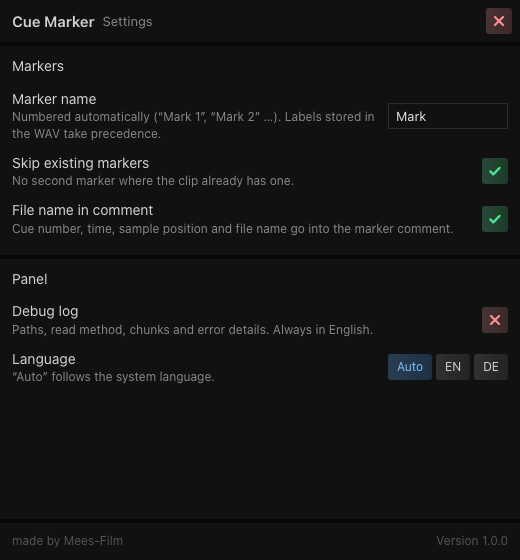
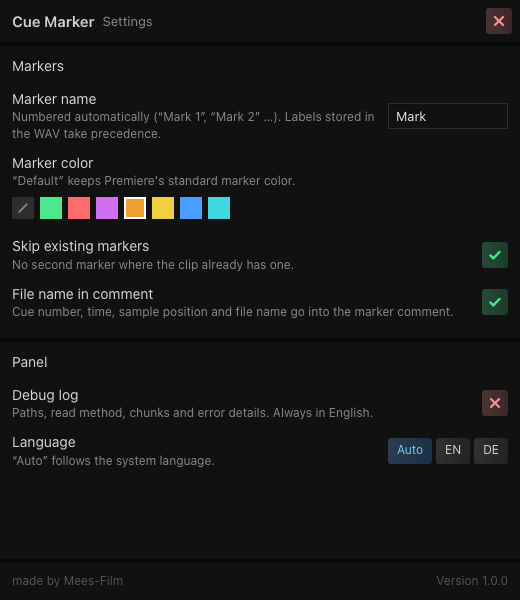
Marker color option
Settings get a swatch row with Premiere's documented marker colors
(Constants.MarkerColor) plus Default. After the add transaction the new
markers are looked up by time and name and colored in a second
transaction via createSetColorByIndexAction.

diff --git a/index.js b/index.js
@@ -27,6 +27,11 @@ const STRINGS = {
     "sec.panel": "Panel",
     "opt.prefix": "Marker name",
     "opt.prefix.hint": "Numbered automatically (“Mark 1”, “Mark 2” …). Labels stored in the WAV take precedence.",
+    "opt.color": "Marker color",
+    "opt.color.hint": "“Default” keeps Premiere's standard marker color.",
+    "color.default": "Default",
+    "color.GREEN": "Green", "color.RED": "Red", "color.MAGENTA": "Purple", "color.ORANGE": "Orange",
+    "color.YELLOW": "Yellow", "color.BLUE": "Blue", "color.CYAN": "Cyan",
     "opt.skipDup": "Skip existing markers",
     "opt.skipDup.hint": "No second marker where the clip already has one.",
     "opt.fileComment": "File name in comment",
@@ -76,6 +81,11 @@ const STRINGS = {
     "sec.panel": "Panel",
     "opt.prefix": "Marker-Name",
     "opt.prefix.hint": "Wird fortlaufend nummeriert („Mark 1“, „Mark 2“ …). In der WAV gespeicherte Labels haben Vorrang.",
+    "opt.color": "Marker-Farbe",
+    "opt.color.hint": "„Standard“ behält Premieres Vorgabefarbe.",
+    "color.default": "Standard",
+    "color.GREEN": "Grün", "color.RED": "Rot", "color.MAGENTA": "Lila", "color.ORANGE": "Orange",
+    "color.YELLOW": "Gelb", "color.BLUE": "Blau", "color.CYAN": "Cyan",
     "opt.skipDup": "Vorhandene Marker überspringen",
     "opt.skipDup.hint": "Kein zweiter Marker, wo der Clip schon einen hat.",
     "opt.fileComment": "Dateiname im Kommentar",
@@ -131,12 +141,25 @@ function applyLanguage() {
   for (const el of document.querySelectorAll("[data-i18n]")) el.textContent = t(el.getAttribute("data-i18n"));
   for (const el of document.querySelectorAll("[data-i18n-title]")) el.title = t(el.getAttribute("data-i18n-title"));
   for (const b of document.querySelectorAll("#langRow .seg-btn")) b.classList.toggle("active", b.getAttribute("data-lang") === settings.lang);
+  for (const sw of document.querySelectorAll("#colorRow .swatch")) sw.title = t("color." + sw.getAttribute("data-color"));
   if (statusState === "idle") setStatus(t("status.idle"), "idle");
 }
 
 // ---------- Settings ----------
 const VERSION = "1.0.0";
-const DEFAULTS = { prefix: "Mark", skipDup: true, fileComment: true, debug: false, lang: "auto" };
+const DEFAULTS = { prefix: "Mark", skipDup: true, fileComment: true, debug: false, lang: "auto", color: "default" };
+// Marker colors: names of ppro.Constants.MarkerColor (documented since 25.6; White is not
+// documented and therefore not offered). The hex values only paint the swatches.
+const COLORS = [
+  { key: "default", hex: null },
+  { key: "GREEN", hex: "#4ce890" },
+  { key: "RED", hex: "#ff6b6b" },
+  { key: "MAGENTA", hex: "#d070f0" },
+  { key: "ORANGE", hex: "#f0a030" },
+  { key: "YELLOW", hex: "#f0d040" },
+  { key: "BLUE", hex: "#4a9eff" },
+  { key: "CYAN", hex: "#40d8e0" },
+];
 let settings = { ...DEFAULTS };
 
 function loadSettings() {
@@ -192,8 +215,23 @@ function paintToggle(el, on) {
   el.innerHTML = on ? ICON_TICK : ICON_CROSS;
 }
 
+function buildSwatches() {
+  const rowEl = $("colorRow");
+  rowEl.innerHTML = "";
+  for (const c of COLORS) {
+    const sw = document.createElement("div");
+    sw.className = "swatch" + (c.hex ? "" : " none");
+    sw.setAttribute("data-color", c.key);
+    if (c.hex) sw.style.background = c.hex;
+    else sw.innerHTML = '<svg width="12" height="12" viewBox="0 0 12 12" fill="none"><path d="M2.2 9.8 9.8 2.2" stroke="currentColor" stroke-width="1.8" stroke-linecap="round"/></svg>';
+    sw.addEventListener("click", () => { settings.color = c.key; saveSettings(); applySettings(); });
+    rowEl.appendChild(sw);
+  }
+}
+
 function applySettings() {
   $("optPrefix").value = settings.prefix;
+  for (const sw of document.querySelectorAll("#colorRow .swatch")) sw.classList.toggle("active", sw.getAttribute("data-color") === settings.color);
   paintToggle($("optSkipDup"), settings.skipDup);
   paintToggle($("optFileComment"), settings.fileComment);
   paintToggle($("optDebug"), settings.debug);
@@ -278,6 +316,7 @@ try {
   console.warn("entrypoints.setup failed:", e);
 }
 
+buildSwatches();
 loadSettings();
 applySettings();
 
@@ -520,6 +559,35 @@ async function selectedClips(project) {
   return out;
 }
 
+function markerColorIndex() {
+  if (!settings.color || settings.color === "default") return null;
+  const mc = ppro.Constants && ppro.Constants.MarkerColor;
+  const v = mc ? mc[settings.color] : undefined;
+  return typeof v === "number" ? v : null;
+}
+
+// Second transaction after the add: the add action does not hand back the marker,
+// so the new markers are looked up by time and name and then colored.
+async function colorizeMarkers(project, clip, clipName, fresh, colorIndex) {
+  const markers = await ppro.Markers.getMarkers(clip);
+  if (!markers) return 0;
+  const targets = [];
+  for (const m of markers.getMarkers()) {
+    let start, name;
+    try { start = m.getStart(); name = m.getName(); } catch (_) { continue; }
+    const sec = typeof start.seconds === "number" ? start.seconds : Number(start.ticks) / 254016000000;
+    if (fresh.some((p) => p.name === name && Math.abs(p.seconds - sec) <= DUP_TOLERANCE)) targets.push(m);
+  }
+  if (!targets.length) return 0;
+  let ok = false;
+  project.lockedAccess(() => {
+    ok = project.executeTransaction((ca) => {
+      for (const m of targets) ca.addAction(m.createSetColorByIndexAction(colorIndex));
+    }, `Cue Marker color: ${clipName}`);
+  });
+  return ok ? targets.length : 0;
+}
+
 function existingMarkerTimes(markers) {
   const times = [];
   try {
@@ -586,6 +654,7 @@ async function run(dry) {
       index: i + 1,
       dup: existing.some((x) => Math.abs(x - cue.seconds) <= DUP_TOLERANCE),
     }));
+    for (const p of plan) p.name = p.label || `${settings.prefix} ${p.index}`;
     const fresh = plan.filter((p) => !p.dup);
     const dups = plan.length - fresh.length;
     for (const p of plan) log(`  cue ${p.index}: ${fmtTime(p.seconds)} (sample ${p.sample})${p.dup ? " – exists" : ""}${p.label ? " – " + p.label : ""}`);
@@ -598,7 +667,7 @@ async function run(dry) {
         project.lockedAccess(() => {
           ok = project.executeTransaction((ca) => {
             for (const p of fresh) {
-              const name = p.label || `${settings.prefix} ${p.index}`;
+              const name = p.name;
               const parts = [];
               if (p.note) parts.push(p.note);
               if (settings.fileComment) parts.push(`Cue ${p.index} · ${fmtTime(p.seconds)} · sample ${p.sample} · ${baseName(c.path)}`);
@@ -622,6 +691,17 @@ async function run(dry) {
       }
       added = fresh.length;
       log(`${added} marker(s) added to "${c.name}"`, "ok");
+      const colorIndex = markerColorIndex();
+      if (colorIndex !== null) {
+        try {
+          const n = await colorizeMarkers(project, c.clip, c.name, fresh, colorIndex);
+          log(`color ${settings.color} (index ${colorIndex}) set on ${n} of ${added} marker(s)`, n === added ? "dim" : "warn");
+        } catch (e) {
+          log(`setting color failed for "${c.name}": ${e.message || e}`, "warn");
+        }
+      } else if (settings.color !== "default") {
+        log(`color ${settings.color} unknown in this Premiere version – markers keep the default color`, "warn");
+      }
     }
 
     totalNew += dry ? fresh.length : added;

diff --git a/styles.css b/styles.css
@@ -211,6 +211,24 @@ html, body {
 .btn-go.btn-disabled:hover { background-color: var(--green-dim); color: var(--green); }
 
 /* ─── Settings ────────────────────────────────────────────── */
+.swatches { display: flex; flex-wrap: wrap; padding: 2px 0 6px; }
+.swatch {
+  width: 22px;
+  height: 22px;
+  margin: 0 6px 6px 0;
+  flex-shrink: 0;
+  border: 2px solid transparent;
+  cursor: pointer;
+  display: flex;
+  align-items: center;
+  justify-content: center;
+  color: var(--text-dim);
+  transition: border-color 0.12s;
+}
+.swatch:hover { border-color: rgba(255,255,255,0.45); }
+.swatch.active { border-color: #fff; }
+.swatch.none { background: var(--surface2); }
+
 #viewSettings { background: var(--ground); }
 .settings-header {
   display: flex;

diff --git a/index.html b/index.html
@@ -79,6 +79,13 @@
           </div>
           <div class="oc-field"><input type="text" class="oc-field-input" id="optPrefix" value="Mark" spellcheck="false"></div>
         </div>
+        <div class="setting-row">
+          <div class="setting-text">
+            <div class="setting-label" data-i18n="opt.color"></div>
+            <div class="setting-hint" data-i18n="opt.color.hint"></div>
+          </div>
+        </div>
+        <div class="swatches" id="colorRow"></div>
         <div class="setting-row" data-opt="skipDup">
           <div class="setting-text">
             <div class="setting-label" data-i18n="opt.skipDup"></div>

diff --git a/README.md b/README.md
@@ -19,6 +19,7 @@ Field recorders such as the **Deity PR-4** write their MARK button presses into 
 - Uses `labl` names and `note` texts from the `LIST/adtl` chunk when a file has them; otherwise markers are numbered (“Mark 1”, “Mark 2” …).
 - **Check** mode lists the cue points per clip without touching the project.
 - **Import** adds the markers as comment markers, one undo step per clip.
+- Optional marker color (green, red, purple, orange, yellow, blue, cyan) or Premiere's default.
 - Skips positions that already carry a clip marker (±2 ms), so you can re-run it safely.
 - Bins, sequences, offline clips and non-WAV media in the selection are skipped and listed with the reason.
 - English and German UI, automatically chosen from the system language and switchable in the settings.
@@ -61,6 +62,7 @@ Times shown as `mm:ss.mmm`; a trailing `*` marks positions that already had a ma
 | Setting | Default | Meaning |
 | --- | --- | --- |
 | Marker name | `Mark` | Prefix for numbered markers. Labels stored in the WAV take precedence. |
+| Marker color | Default | One of Premiere's marker colors, or Default to leave it alone. The color is applied in a second transaction right after the markers are added, so it shows up as a separate undo step. |
 | Skip existing markers | on | No second marker within 2 ms of an existing one. |
 | File name in comment | on | Marker comment contains cue number, time, sample position and file name. |
 | Debug log | off | Shows file paths, the read method that worked, chunk layout and error details below the list. Also toggled by the list icon in the toolbar and from the flyout menu. Turn it on before reporting a bug and use the copy icon. |
@@ -72,6 +74,7 @@ Times shown as `mm:ss.mmm`; a trailing `*` marks positions that already had a ma
 2. The WAV is opened with UXP's `fs` module and walked chunk by chunk. `ds64` is used for the data size of RF64 files, so the parser can jump over the audio data to the `cue ` chunk at the end of the file.
 3. Each cue's `dwSampleOffset` divided by the sample rate from `fmt ` gives the marker time in seconds.
 4. `Markers.getMarkers(clipProjectItem)` → `createAddMarkerAction(...)`, executed inside `project.lockedAccess()` + `project.executeTransaction()`.
+5. With a color chosen, the new markers are looked up again by time and name and colored with `createSetColorByIndexAction(Constants.MarkerColor.<COLOR>)` in a second transaction. White is not offered because the API does not document it.
 
 Marker times are relative to the start of the media (0 s), independent of the file's BWF start timecode.
 

diff --git a/ANLEITUNG.md b/ANLEITUNG.md
@@ -31,6 +31,7 @@ Ergebnis pro Clip:
 ## Einstellungen (⚙ oder Flyout-Menü ≡ des Panels)
 
 - **Marker-Name** – Standard „Mark“, wird nummeriert („Mark 1“ …). Enthält die WAV Labels (`labl`), haben diese Vorrang.
+- **Marker-Farbe** – Grün, Rot, Lila, Orange, Gelb, Blau, Cyan oder „Standard“ (Premieres Vorgabe). Die Farbe wird direkt nach dem Anlegen in einem zweiten Schritt gesetzt und ist deshalb ein eigener Undo-Eintrag. Weiß bietet die API nicht dokumentiert an.
 - **Vorhandene Marker überspringen** – kein zweiter Marker innerhalb von 2 ms an derselben Stelle.
 - **Dateiname im Kommentar** – Kommentar enthält Cue-Nummer, Zeit, Sample und Dateiname.
 - **Debug-Protokoll** – zeigt Pfade, Lesevariante, Chunks und Fehlerdetails unter der Liste. Auch über das Listen-Symbol in der Werkzeugleiste. Bei Problemen einschalten und über das Kopieren-Symbol weitergeben. Das Protokoll ist immer englisch, damit Fehlerberichte für alle lesbar sind.

diff --git a/CHANGELOG.md b/CHANGELOG.md
@@ -6,5 +6,6 @@
 - Reads `cue ` chunks from RIFF, RF64 and BW64 WAV files; uses `labl`/`note` entries when present.
 - Check mode (read-only) and import mode (clip markers, one undo step per clip).
 - Skips positions that already carry a marker.
+- Optional marker color.
 - English and German UI.
 - Flat panel layout: tinted clip rows, status strip with Check/Import buttons, full-panel settings, flyout menu.
